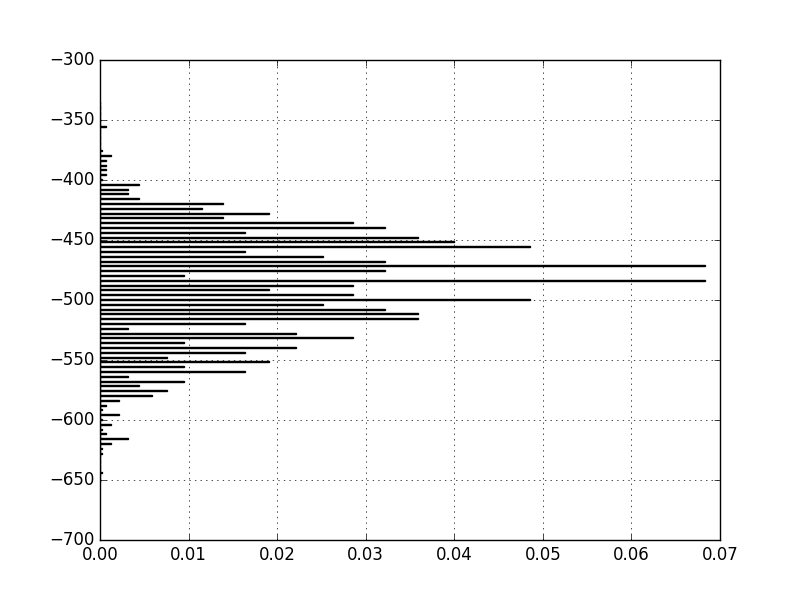
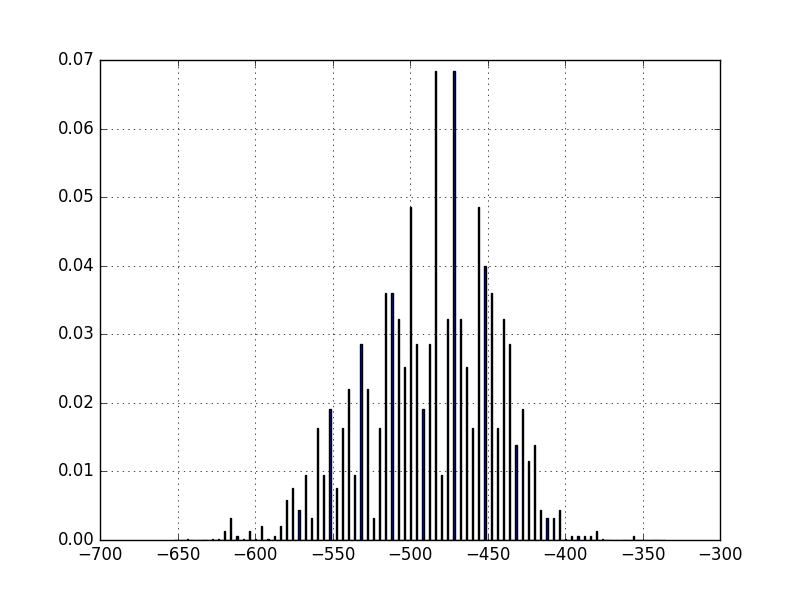
Small changes

diff --git a/python/harryplotter.py b/python/harryplotter.py
@@ -1,5 +1,5 @@
 import matplotlib.pyplot as plt
-from numpy import array
+from numpy import array, var
 import sys
 
 
@@ -71,10 +71,13 @@ def d_reader(filename, T, direction):
     AE_value = array(E_values)#_list)
 
     plt.figure(1)
-    plt.barh(AE_value, AE_counter/sum(AE_counter)) #, align = 'center')
+    plt.bar(AE_value, AE_counter/float(sum(AE_counter))) #, align = 'center')
     plt.grid(True)
     plt.savefig("../figures/task_d/EvaluesBAR_T=%1.1f_dir%s.png" %(T, direction))
     plt.show()
+
+    print var(AE_counter)
+    print var(AE_counter/float(sum(AE_counter)))
 
 if sys.argv[1] == "c" and sys.argv[2] == "up":
     plotter("../benchmarks/task_c/eigenvalues_MC1.0e+06_dim2_dirup_T1.0.xyz", "up", "c")
@@ -101,4 +104,4 @@ elif sys.argv[1] == "d" and sys.argv[2] == "rand" and sys.argv[3] == 20:
     plotter("../benchmarks/task_d/eigenvalues_MC1.0e+06_dim20_dirrand_T2.4.xyz", "rand", "d")
 
 elif sys.argv[1] == "d" and sys.argv[2] == "rand" and sys.argv[3] == "Evalues":
-    d_reader("../benchmarks/task_d/EnergyValues_T1.0_L20.0_dir_rand.txt", 1.0, "rand")
+    d_reader("../benchmarks/task_d/EnergyValues_T2.4_L20.0_dir_rand.txt", 2.4, "rand")
